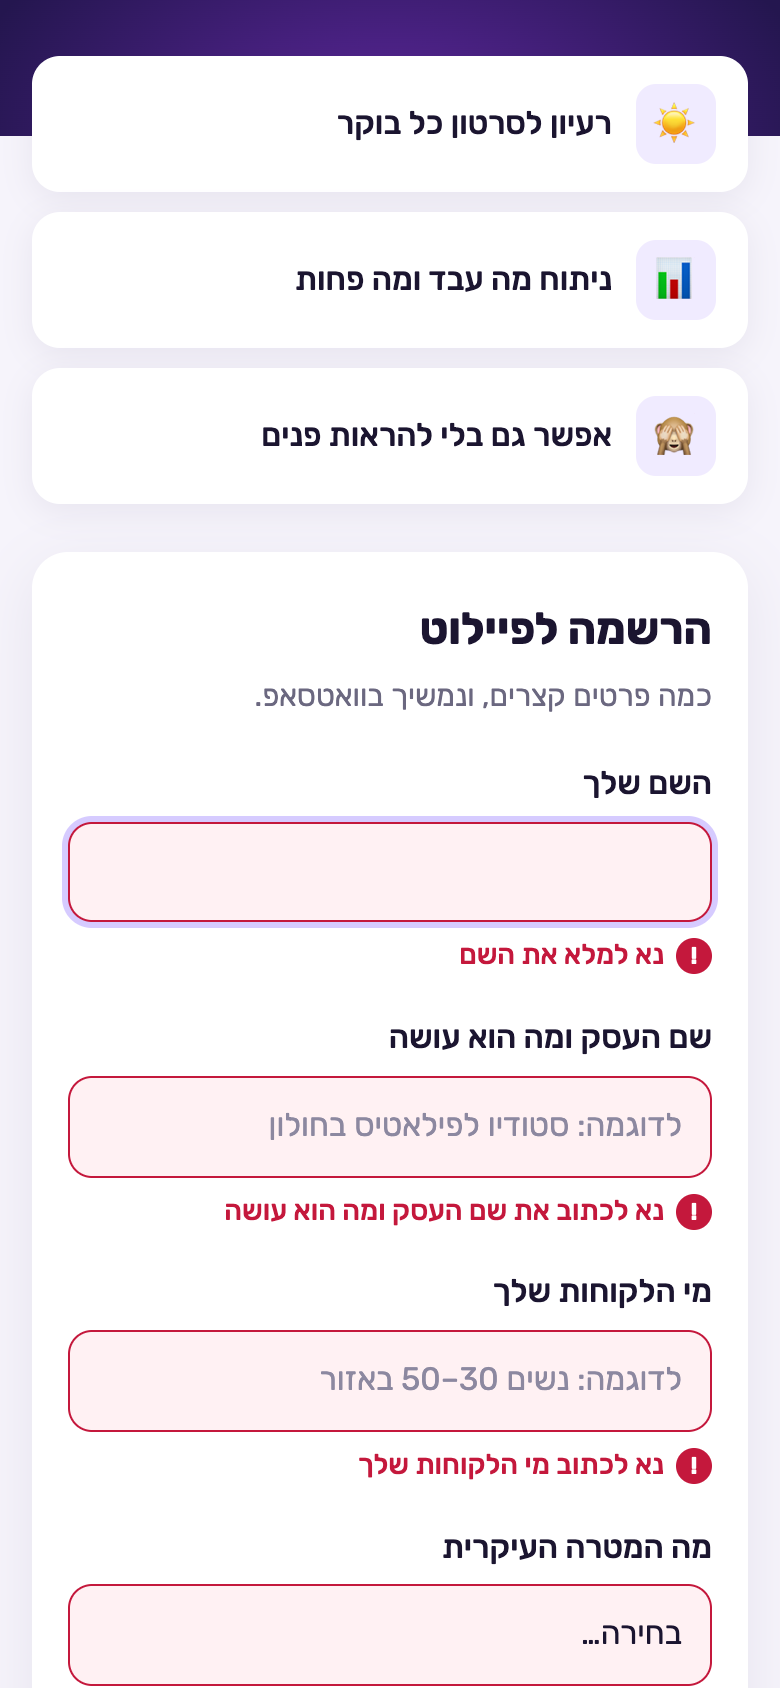
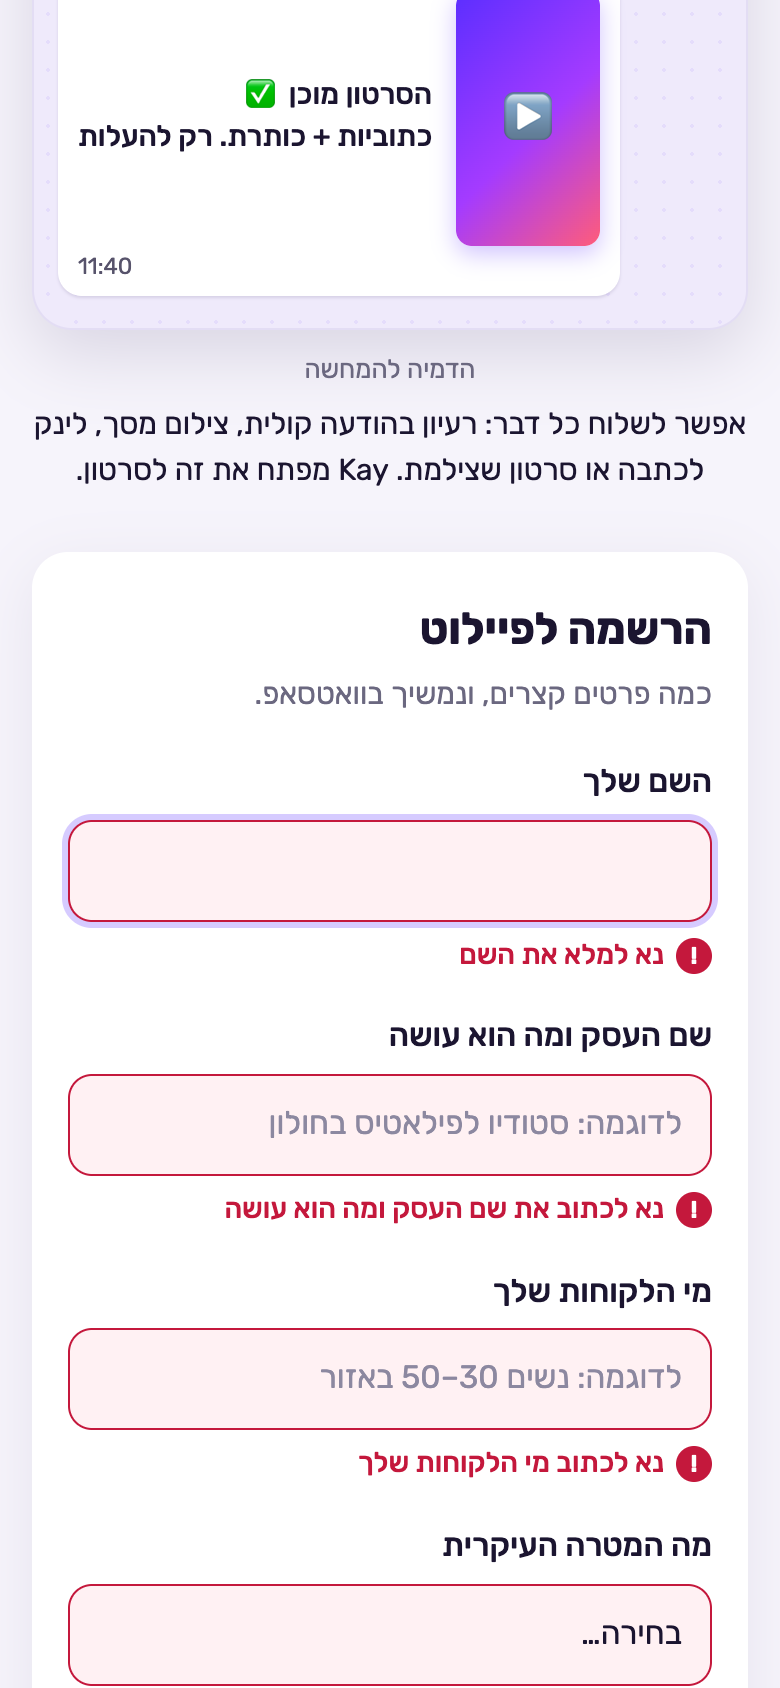
Add video editing to pilot, WhatsApp demo section, success tip

diff --git a/index.html b/index.html
@@ -118,7 +118,7 @@
   }
   @media (min-width: 640px) {
     .wrap { max-width: 640px; }
-    .features { grid-template-columns: repeat(3, 1fr); }
+    .features { grid-template-columns: repeat(2, 1fr); }
     .features li { flex-direction: column; text-align: center; padding: 18px 12px; }
   }
 
@@ -271,6 +271,51 @@
   }
   .x:focus-visible { outline: none; box-shadow: var(--focus); }
 
+  /* ---------- WhatsApp demo ---------- */
+  .demo { margin: 8px 0 28px; text-align: center; }
+  .demo h2 { font-size: 21px; line-height: 1.35; margin: 0 auto 16px; max-width: 24em; }
+  .chat {
+    width: 100%; max-width: 380px; margin: 0 auto; text-align: start;
+    border-radius: 20px; overflow: hidden; background: #EFEAFB;
+    box-shadow: 0 12px 34px rgba(36,22,79,.14);
+    border: 1px solid #E3DDF4;
+  }
+  .chat-head { display: flex; align-items: center; gap: 10px; background: var(--dark); color: #fff; padding: 10px 14px; }
+  .logo-sm { width: 34px; height: 34px; border-radius: 10px; font-size: 19px; box-shadow: none; }
+  .logo-sm::before { top: 6px; left: 6px; width: 5px; height: 5px; }
+  .chat-name { font-weight: 700; font-size: 15px; direction: ltr; text-align: right; }
+  .chat-status { font-size: 12px; color: #D9D2F5; }
+  .chat-body {
+    display: flex; flex-direction: column; gap: 8px; padding: 14px 12px 16px;
+    background-image: radial-gradient(rgba(91,46,255,.07) 1px, transparent 1px);
+    background-size: 14px 14px;
+  }
+  .bubble {
+    position: relative; max-width: 86%; padding: 8px 10px 6px; border-radius: 12px;
+    font-size: 14.5px; line-height: 1.45; color: var(--text);
+    box-shadow: 0 1px 1.5px rgba(36,22,79,.12);
+  }
+  .bubble p { margin: 0 0 3px; }
+  .bubble.me { align-self: flex-start; background: #E3D9FF; border-start-start-radius: 4px; }
+  .bubble.kay { align-self: flex-end; background: #fff; border-start-end-radius: 4px; }
+  .bubble .meta { display: block; text-align: left; font-size: 11.5px; color: #57536B; direction: ltr; margin-top: 2px; }
+  .bubble .ticks { color: #3B1FB8; letter-spacing: -2px; margin-left: 2px; }
+  .shot {
+    display: flex; align-items: center; gap: 8px; background: #D8D6DF; color: #34304A;
+    border-radius: 8px; padding: 14px 10px; margin-bottom: 6px; font-size: 13.5px; font-weight: 500;
+  }
+  .shot-ico { font-size: 22px; line-height: 1; }
+  .video { display: flex; align-items: center; gap: 12px; }
+  .reel {
+    width: 72px; aspect-ratio: 9 / 16; flex: none; border-radius: 8px; background: var(--grad);
+    display: grid; place-items: center; box-shadow: 0 4px 12px rgba(91,46,255,.3);
+  }
+  .play { font-size: 24px; line-height: 1; }
+  .video p { font-weight: 500; }
+  .demo-note { font-size: 13px; color: var(--muted); margin: 10px 0 6px; }
+  .demo-more { font-size: 15px; color: var(--text); margin: 0 auto; max-width: 30em; }
+  .tip { background: #F1ECFF; border-radius: 10px; padding: 10px 12px; font-size: 15px; margin: 18px 0 0; text-align: start; }
+
   .sr-only { position: absolute !important; width: 1px; height: 1px; padding: 0; margin: -1px; overflow: hidden; clip: rect(0,0,0,0); white-space: nowrap; border: 0; }
   [hidden] { display: none !important; }
 </style>
@@ -285,7 +330,7 @@
     </div>
     <p class="pill"><span class="dot" aria-hidden="true"></span>פיילוט, מספר מקומות מוגבל</p>
     <h1>עוזר שיווק אישי בוואטסאפ</h1>
-    <p class="sub">כל בוקר רעיון לסרטון שמתאים לעסק שלך, כל ערב דוח מה עבד. גם אם לא נוח לך להצטלם.</p>
+    <p class="sub">כל בוקר רעיון לסרטון שמתאים לעסק שלך. מצלמים ושולחים, ו־Kay מחזיר סרטון ערוך עם כתוביות, מוכן להעלאה. גם אם לא נוח לך להצטלם.</p>
   </div>
 </header>
 
@@ -293,8 +338,46 @@
   <ul class="features">
     <li><span class="emoji" aria-hidden="true">☀</span><span>רעיון לסרטון כל בוקר</span></li>
     <li><span class="emoji" aria-hidden="true">📊</span><span>ניתוח מה עבד ומה פחות</span></li>
+    <li><span class="emoji" aria-hidden="true">✂</span><span>עריכה וכתוביות בעברית: את/ה מצלם/ת, אנחנו עורכים</span></li>
     <li><span class="emoji" aria-hidden="true">🙈</span><span>אפשר גם בלי להראות פנים</span></li>
   </ul>
+
+  <!-- ===== WhatsApp demo ===== -->
+  <section class="demo" aria-labelledby="demoTitle">
+    <h2 id="demoTitle">שולחים רעיון או צילום מסך, ו־Kay הופך אותו לסרטון</h2>
+    <div class="chat" role="img" aria-label="הדמיה של שיחת וואטסאפ עם Hey Kay: הלקוחה שולחת צילום מסך של מחירון חדש ושואלת אם אפשר לעשות מזה משהו. Kay מציע רעיון לסרטון של 25 שניות בלי פנים, עם הוק ותסריט צילום, ובהמשך מחזיר סרטון ערוך עם כתוביות וכותרת, מוכן להעלאה.">
+      <div class="chat-head">
+        <div class="logo logo-sm"><span>K</span></div>
+        <div>
+          <div class="chat-name">Hey Kay</div>
+          <div class="chat-status">מחובר/ת</div>
+        </div>
+      </div>
+      <div class="chat-body">
+        <div class="bubble me" role="group" aria-label="הודעת לקוח, 09:12: צילום מסך של מחירון חדש. ראיתי שהעלינו מחירים, אפשר לעשות מזה משהו?">
+          <div class="shot"><span class="shot-ico">🖼</span><span>צילום מסך: מחירון חדש</span></div>
+          <p>ראיתי שהעלינו מחירים, אפשר לעשות מזה משהו?</p>
+          <span class="meta">09:12 <span class="ticks">✓✓</span></span>
+        </div>
+        <div class="bubble kay" role="group" aria-label="הודעה מ־Kay, 09:13: רעיון לסרטון עם הוק, צילום בלי פנים, 25 שניות">
+          <p>💡 רעיון: "למה העלינו מחיר, ומה קיבלתם בתמורה"</p>
+          <p>🎬 הוק: "אני לא אוהבת להעלות מחירים, אז הנה בדיוק לאן הולך כל שקל"</p>
+          <p>📱 בלי פנים: צילום של המחירון, ואז של הידיים בעבודה</p>
+          <p>⏱ 25 שניות. צלמי ושלחי לי, אני עורך</p>
+          <span class="meta">09:13</span>
+        </div>
+        <div class="bubble kay" role="group" aria-label="הודעה מ־Kay, 11:40: הסרטון מוכן, עם כתוביות וכותרת, רק להעלות">
+          <div class="video">
+            <div class="reel"><span class="play">▶</span></div>
+            <p>הסרטון מוכן ✅<br>כתוביות + כותרת. רק להעלות</p>
+          </div>
+          <span class="meta">11:40</span>
+        </div>
+      </div>
+    </div>
+    <p class="demo-note">הדמיה להמחשה</p>
+    <p class="demo-more">אפשר לשלוח כל דבר: רעיון בהודעה קולית, צילום מסך, לינק לכתבה או סרטון שצילמת. Kay מפתח את זה לסרטון.</p>
+  </section>
 
   <!-- ===== Pilot closed ===== -->
   <section id="closed" class="card center" hidden aria-labelledby="closedTitle">
@@ -410,6 +493,7 @@
       <button type="button" class="btn-ghost" id="copyBtn">📋 העתק את ההודעה</button>
     </div>
     <div class="toast" id="copyToast" role="status" aria-live="polite"></div>
+    <p class="tip">💡 טיפ: כבר יש לך רעיון? תשלח/י אותו בוואטסאפ אחרי ההרשמה, גם כצילום מסך.</p>
     <p class="small">נחזור אליך בוואטסאפ תוך יום עבודה</p>
   </section>
 
@@ -429,6 +513,7 @@
       <li>נשלח אליך הודעות בוואטסאפ בימים א׳–ה׳ בבוקר, ובמוצאי שבת. לא בשבת.</li>
       <li>את ההודעות כותב עוזר AI, ויוסי מלווה אותו. ייתכנו טעויות, וכל החלטה על פרסום היא שלך.</li>
       <li>אנחנו נעזרים רק במידע הציבורי בחשבונות שלך. לא נבקש סיסמאות ולא נפרסם בשמך.</li>
+      <li>סרטונים ששולחים לעריכה משמשים רק לעריכה עבורך, ונמחקים בסוף הפיילוט או לפי בקשה.</li>
       <li>אפשר להפסיק בכל רגע: כותבים "עצור" בצ'אט, והמידע שלך יימחק.</li>
     </ul>
   </div>
